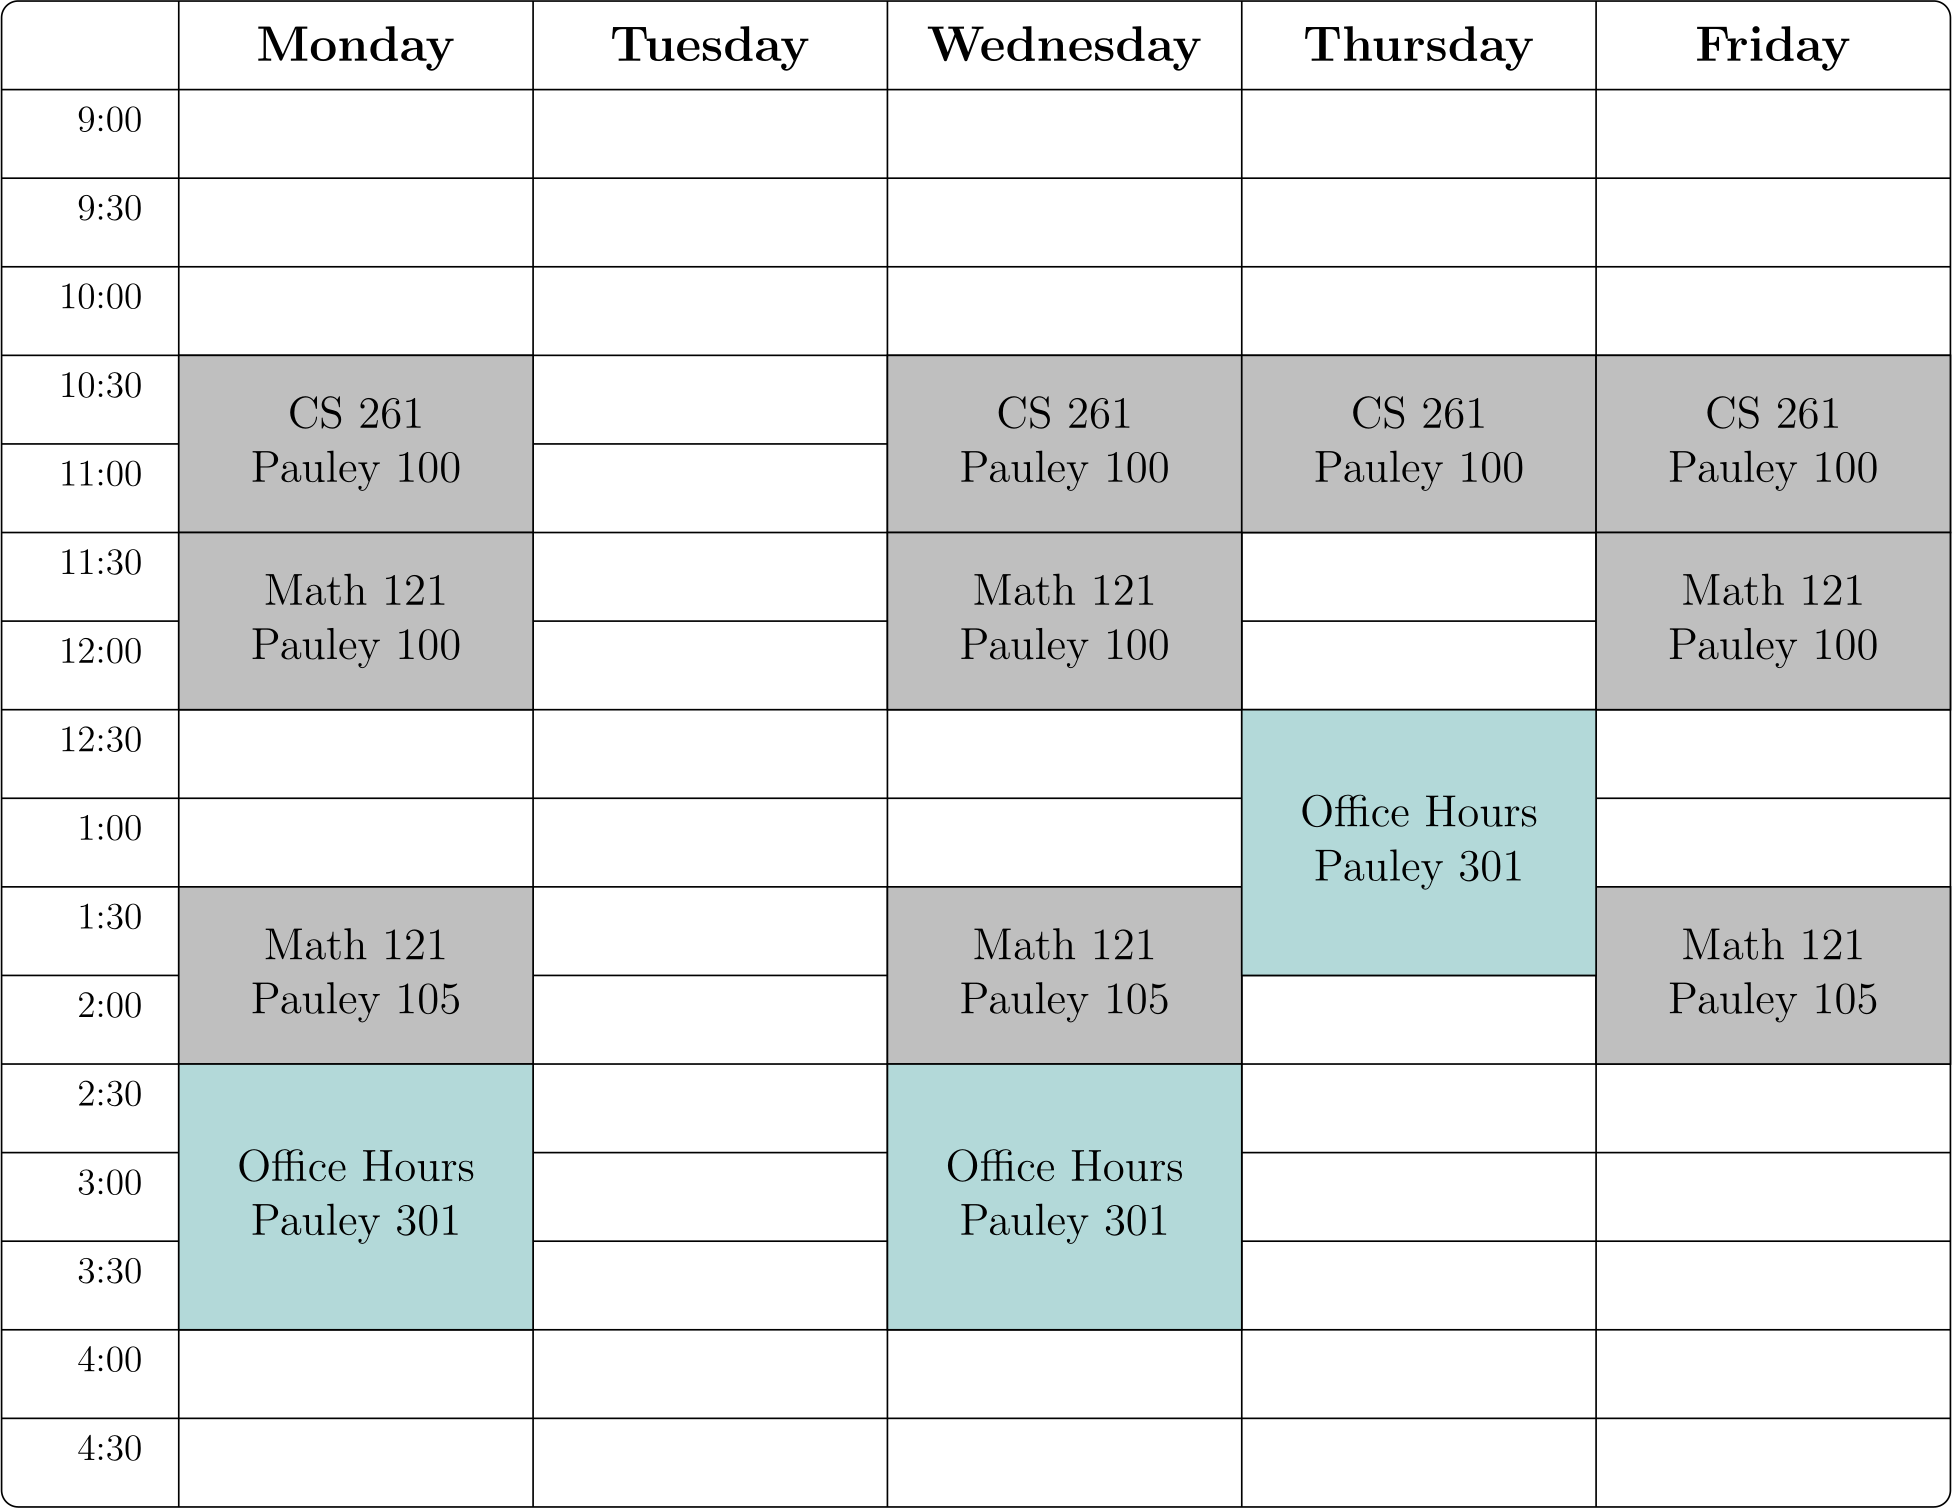
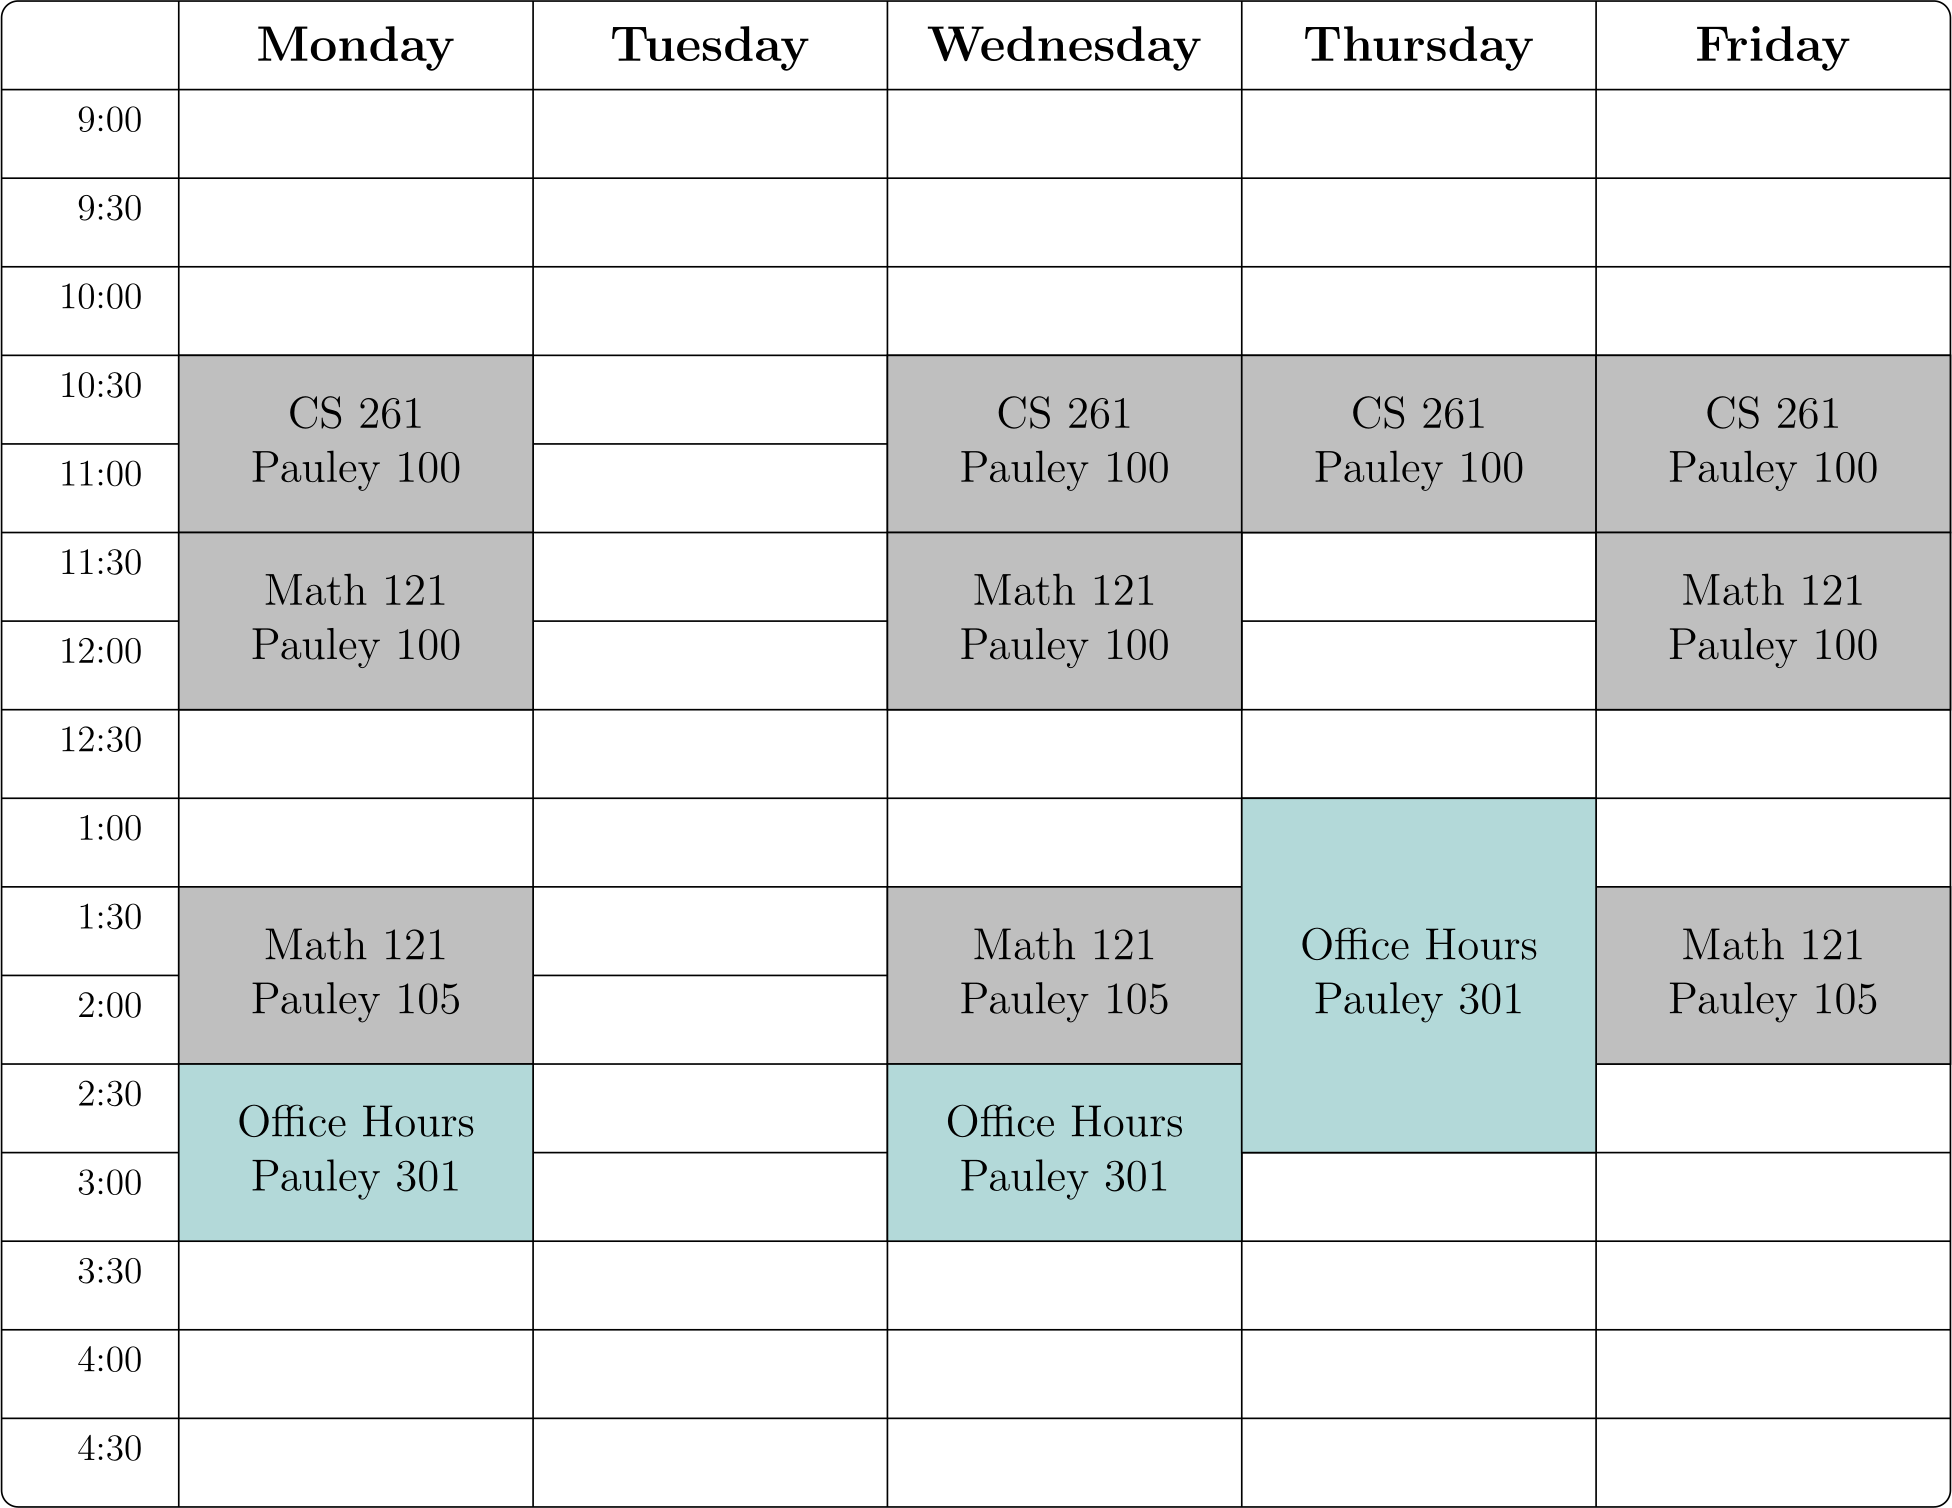
Fall 2026 day 1 updates.

diff --git a/fall26/coms261/notes.html b/fall26/coms261/notes.html
@@ -2751,17 +2751,17 @@ if __name__ == "__main__":
 <tr class="even">
 <td style="text-align: center;">Wed, Dec 2</td>
 <td style="text-align: center;"></td>
-<td style="text-align: left;">Checkers</td>
+<td style="text-align: left;">Practical exams</td>
 </tr>
 <tr class="odd">
 <td style="text-align: center;">Thu, Dec 3</td>
 <td style="text-align: center;"></td>
-<td style="text-align: left;">Checkers - con’d</td>
+<td style="text-align: left;">Practical exams</td>
 </tr>
 <tr class="even">
 <td style="text-align: center;">Fri, Dec 4</td>
 <td style="text-align: center;"></td>
-<td style="text-align: left;">Google Colab</td>
+<td style="text-align: left;">Practical exams</td>
 </tr>
 <tr class="odd">
 <td style="text-align: center;">Mon, Dec 7</td>

diff --git a/fall26/math121/syllabus.tex b/fall26/math121/syllabus.tex
@@ -45,7 +45,7 @@ Instructor & Brian Lins \\ \hline
 Email Address & blins@hsc.edu \\ \hline
 Course Meeting Times & MWF 11:30am - 12:20pm (Section 02) \& MWF 1:30pm - 2:20pm (Section 04)\\ \hline
 Course Meeting Location & Pauley 100 (Section 02) \& Pauley 105 (Section 04) \\ \hline
-Office Hours & MW 2:30 - 4:00pm \& R 12:30 - 2:00pm \\ 
+Office Hours & MW 2:30 - 3:30pm \& R 1:00 - 3:00pm (and by appointment) \\ 
 & See the course website: \url{https://bclins.github.io} ~ \\ \hline
 Textbook & OpenIntro Statistics, 4th edition by Diez,\\ &  Cetinkaya-Rundel, \& Barr \\ \hline
 \end{tabular}

diff --git a/fall26/coms261/syllabus.tex b/fall26/coms261/syllabus.tex
@@ -45,7 +45,7 @@ Instructor & Brian Lins \\ \hline
 Email Address & blins@hsc.edu \\ \hline
 Course Meeting Times & MWF 10:30 - 11:20am \\ \hline
 Course Meeting Location & Pauley 100 \\ \hline
-Office Hours & MW 2:30 - 4:00pm \& R 12:30 - 2:00pm \\ 
+Office Hours & MW 2:30 - 3:30pm \& R 1:00 - 3:00pm (and by appointment) \\ 
 & See the course website: \url{https://bclins.github.io} ~ \\ \hline
 Textbook & Think Python, 2nd edition by Allen Downey \\ \hline
 \end{tabular}

diff --git a/fall26/coms261/notes.md b/fall26/coms261/notes.md
@@ -2348,9 +2348,9 @@ if __name__ == "__main__":
 Day  | Section  | Topic
 :---:|:---:|:---------
 Mon, Nov 30 |  | Inheritance
-Wed, Dec 2  |  | Checkers
-Thu, Dec 3  |  | Checkers - con’d
-Fri, Dec 4  |  | Google Colab
+Wed, Dec 2  |  | Practical exams
+Thu, Dec 3  |  | Practical exams
+Fri, Dec 4  |  | Practical exams
 Mon, Dec 7  |  | Review
 
 <!--
